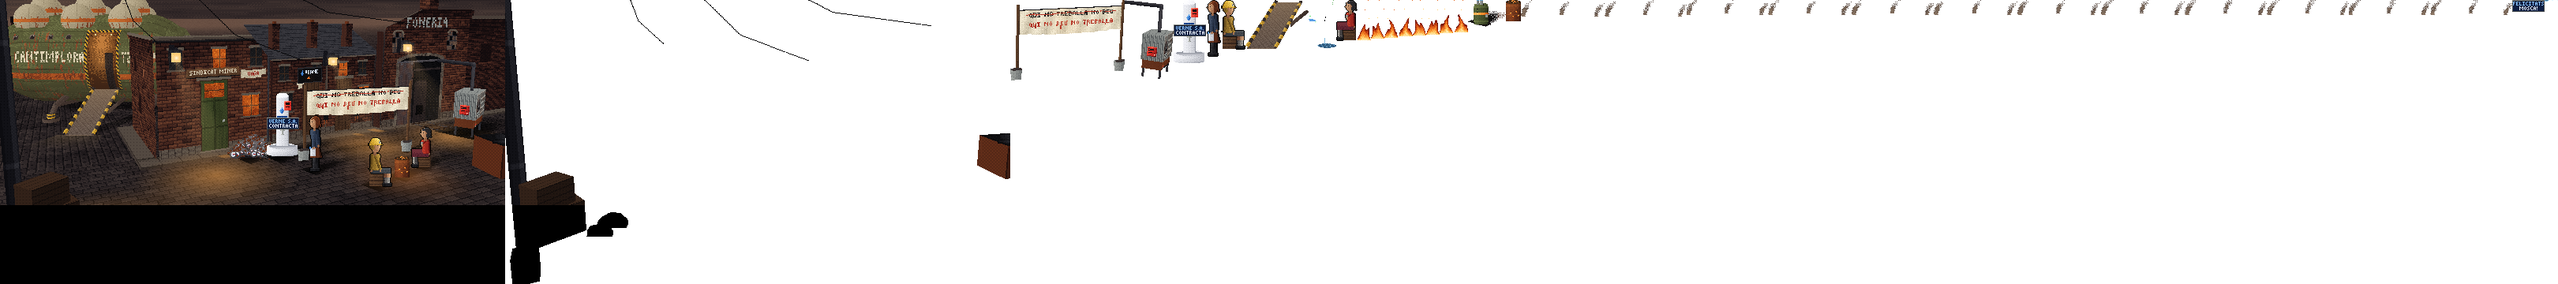
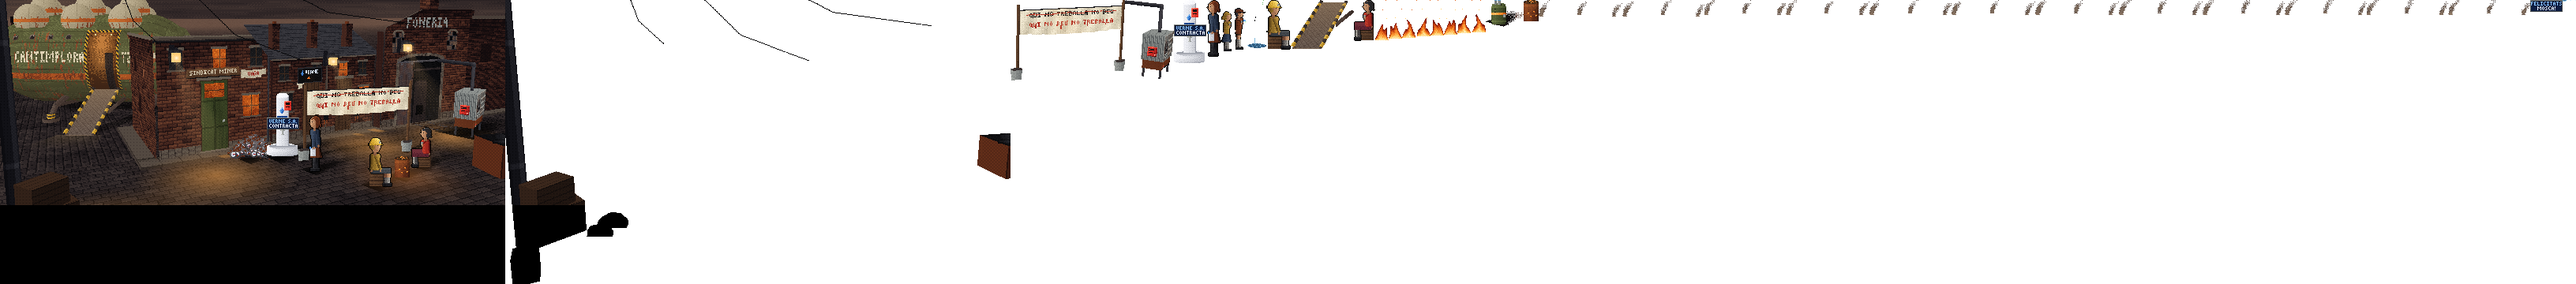
Aigua Verne: el condensador arreglat de Ferrum té canalla fent cua
116: amb el condensador engegat, a més del raig i el toll, dues criatures del piquet hi fan cua amb gots.

diff --git a/games/aigua-verne/adapters/benne/tools/hd640/rooms/ferrum_carrer.py b/games/aigua-verne/adapters/benne/tools/hd640/rooms/ferrum_carrer.py
@@ -26,6 +26,8 @@ un personatge fa la seva mida normal. Les façanes planes es posen a ×1,25 (al 
 import functools
 import math
 
+from PIL import Image
+
 import hd640  # noqa: F401  (abans que cap hd.rooms: posa la llibreria a 640×360)
 from hd.pix import Canvas, Light, W, H, hr
 from hd.rooms.comu import _diff
@@ -670,6 +672,21 @@ def condensador_arreglat(cv):
                 (tap[0] - 18, 0.4, tap[2] - 16), ramp=WATER, lvl=lambda s, t, P: 2.0 + (1.6 if (s + t) % 9 < 1.5 else 0),
                 forma=lambda s, t: ((s - 18) / 18) ** 2 + ((t - 11) / 11) ** 2 <= 1)
     cv.img.alpha_composite(_sobre(toll))
+    # i la canalla del piquet hi fa cua amb gots: dos criatures dretes, de cara a l'aixeta
+    kw = dict(cap=4.6, ample=0.085)
+
+    def dues(c):
+        PL.persona_c(c, 100, 120, h=66, facing=1, var=4, tipus='nen', light_from=1, hold='got', **kw)
+        PL.persona_c(c, 160, 120, h=62, facing=1, var=1, tipus='nena', light_from=1, hold='got', **kw)
+    criatures = _pla(dues)
+    for n, (fx, dx, dz) in enumerate(((100, -44, -4), (160, -66, 0))):
+        img = criatures.crop((fx - 20, 40, fx + 20, 124))
+        peu = (tap[0] + dx, 0, tap[2] + dz)
+
+        def cua(e2, img=img, peu=peu, n=n):
+            ombra(e2, peu[0], peu[2], 7, 10, 0.4)
+            e2.sprite(f'cua{n}', img, (20, 80), peu, escala_img=KP)
+        cv.img.alpha_composite(_sobre(cua))
 
 
 def pantalla_mosca(cv):
